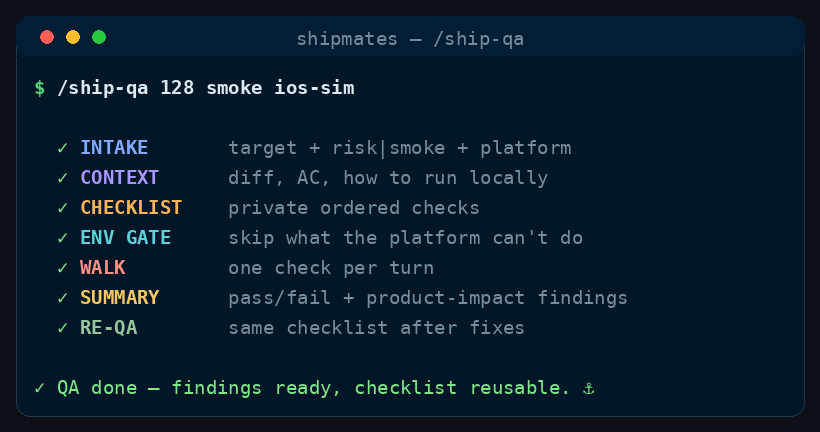
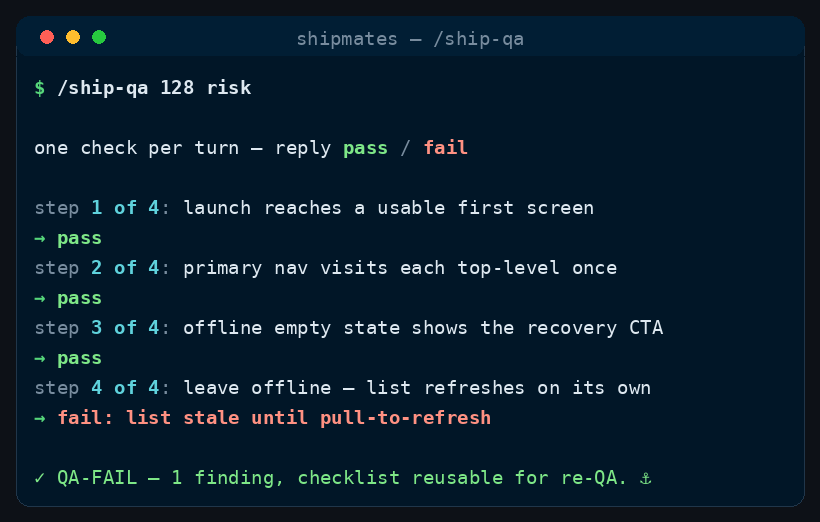
fix(site): show /ship-qa demo as interactive one-check-per-turn walk
The generic stage-spinner reel misread the command as a finished checklist.
The reel now mirrors the captain/agent QA loop; page caption matches.

diff --git a/site/commands/ship-qa/index.html b/site/commands/ship-qa/index.html
@@ -119,9 +119,9 @@
           <h2 class="section__title" id="demo-title">See it run</h2>
         </div>
         <figure class="demo">
-          <img class="demo__media" id="demo-media" src="../../assets/command-ship-qa-poster.png" width="820" height="432" alt="Illustrative terminal recording of the stages /ship-qa runs, in order." loading="lazy">
+          <img class="demo__media" id="demo-media" src="../../assets/command-ship-qa-poster.png" width="820" height="522" alt="Illustrative terminal recording of an interactive /ship-qa session — one manual check per turn, waiting for pass or fail." loading="lazy">
           <button type="button" class="btn btn--secondary demo__toggle" id="demo-toggle" aria-pressed="false" aria-controls="demo-media">Play the run</button>
-          <figcaption class="demo__caption">Illustrative — the stages <code>/ship-qa</code> runs, in order.</figcaption>
+          <figcaption class="demo__caption">Illustrative — an interactive <code>/ship-qa</code> walk: one check per turn, the captain replies pass or fail.</figcaption>
         </figure>
       </div>
     </section>

diff --git a/tools/gen_command_demos.py b/tools/gen_command_demos.py
@@ -186,7 +186,10 @@ COMMANDS = {
         "closer": "Reviewed — one ranked verdict, with reasons. ⚓",
     },
     "ship-qa": {
-        "arg": "128 smoke ios-sim",
+        # Stages list stays in lockstep with commands/ship-qa.md for the
+        # source-count assertion; the reel itself is a custom interactive walk
+        # (see build_ship_qa) — not the generic spinner-stage idiom.
+        "arg": "128 risk",
         "stages": [
             ("INTAKE", "target + risk|smoke + platform"),
             ("CONTEXT", "diff, AC, how to run locally"),
@@ -196,7 +199,7 @@ COMMANDS = {
             ("SUMMARY", "pass/fail + product-impact findings"),
             ("RE-QA", "same checklist after fixes"),
         ],
-        "closer": "QA done — findings ready, checklist reusable. ⚓",
+        "closer": "QA-FAIL — 1 finding, checklist reusable for re-QA. ⚓",
     },
     "ship-onboard": {
         "arg": "",
@@ -234,7 +237,67 @@ def _height(n_stages):
     return h + (h % 2)  # keep even
 
 
+def _height_for_lines(n_lines):
+    h = dt.Y0 + n_lines * dt.LINE_H + 26
+    return h + (h % 2)
+
+
+def build_ship_qa(spec):
+    """Interactive one-check-per-turn walk — not the generic stage spinner.
+
+    Captains operate the device; the agent announces step N of M, waits for
+    pass/fail, then advances. The reel shows that contract, not a finished
+    checklist of workflow stages.
+    """
+    # cmd, blank, contract, blank, 4×(step + reply), blank, closer
+    H = _height_for_lines(14)
+    term = dt.Terminal(W, H, "shipmates — /ship-qa")
+    reel = dt.Reel(term)
+    prompt = [("$ ", dt.PROMPT, True)]
+    captain = [("→ ", dt.PROMPT, True)]
+
+    invocation = f"/ship-qa {spec['arg']}".strip()
+    reel.type_command(prompt, invocation, hold_blinks=1)
+    reel.blank()
+    reel.reveal(
+        [("one check per turn — reply ", dt.WHITE, False),
+         ("pass", dt.GREEN, True),
+         (" / ", dt.GREY, False),
+         ("fail", dt.CORAL, True)],
+        dur=320,
+    )
+    reel.blank()
+
+    steps = [
+        ("1", "launch reaches a usable first screen", "pass", True),
+        ("2", "primary nav visits each top-level once", "pass", True),
+        ("3", "offline empty state shows the recovery CTA", "pass", True),
+        ("4", "leave offline — list refreshes on its own",
+         "fail: list stale until pull-to-refresh", False),
+    ]
+    for n, check, reply, ok in steps:
+        reel.reveal(
+            [("step ", dt.GREY, False),
+             (f"{n} of 4", dt.CYAN, True),
+             (": ", dt.GREY, False),
+             (check, dt.WHITE, False)],
+            dur=280,
+        )
+        color = dt.GREEN if ok else dt.CORAL
+        reel.reveal(captain + [(reply, color, True)], dur=300)
+
+    reel.blank()
+    reel.reveal([("✓ ", dt.GREEN, True), (spec["closer"], dt.GREEN, False)], dur=320)
+    reel.hold(300, times=3)
+
+    gif_bytes, poster_bytes, frame_count = dt.encode(reel, W, H, PALETTE)
+    return gif_bytes, poster_bytes, frame_count, len(spec["stages"])
+
+
 def build_one(slug, spec):
+    if slug == "ship-qa":
+        return build_ship_qa(spec)
+
     n = len(spec["stages"])
     H = _height(n)
     term = dt.Terminal(W, H, f"shipmates — /{slug}")

diff --git a/tools/gen_command_pages.py b/tools/gen_command_pages.py
@@ -3358,15 +3358,33 @@ def render_demo(cmd: Command) -> str:
     button swaps in the animated GIF (WCAG 2.2.2 — motion is user-initiated)."""
     _gif, poster = _demo_assets(cmd.slug)
     w, h = _png_size(ROOT / "site" / "assets" / poster)
+    if cmd.slug == "ship-qa":
+        alt = (
+            f"Illustrative terminal recording of an interactive /{esc(cmd.slug)} "
+            "session — one manual check per turn, waiting for pass or fail."
+        )
+        caption = (
+            f"Illustrative — an interactive <code>/{esc(cmd.slug)}</code> walk: "
+            "one check per turn, the captain replies pass or fail."
+        )
+    else:
+        alt = (
+            f"Illustrative terminal recording of the stages /{esc(cmd.slug)} "
+            "runs, in order."
+        )
+        caption = (
+            f"Illustrative — the stages <code>/{esc(cmd.slug)}</code> runs, "
+            "in order."
+        )
     return f"""    <section class="section" id="demo" aria-labelledby="demo-title">
       <div class="container container--prose">
         <div class="section__head">
           <h2 class="section__title" id="demo-title">See it run</h2>
         </div>
         <figure class="demo">
-          <img class="demo__media" id="demo-media" src="{link('../../assets/' + poster)}" width="{w}" height="{h}" alt="Illustrative terminal recording of the stages /{esc(cmd.slug)} runs, in order." loading="lazy">
+          <img class="demo__media" id="demo-media" src="{link('../../assets/' + poster)}" width="{w}" height="{h}" alt="{alt}" loading="lazy">
           <button type="button" class="btn btn--secondary demo__toggle" id="demo-toggle" aria-pressed="false" aria-controls="demo-media">Play the run</button>
-          <figcaption class="demo__caption">Illustrative — the stages <code>/{esc(cmd.slug)}</code> runs, in order.</figcaption>
+          <figcaption class="demo__caption">{caption}</figcaption>
         </figure>
       </div>
     </section>"""
